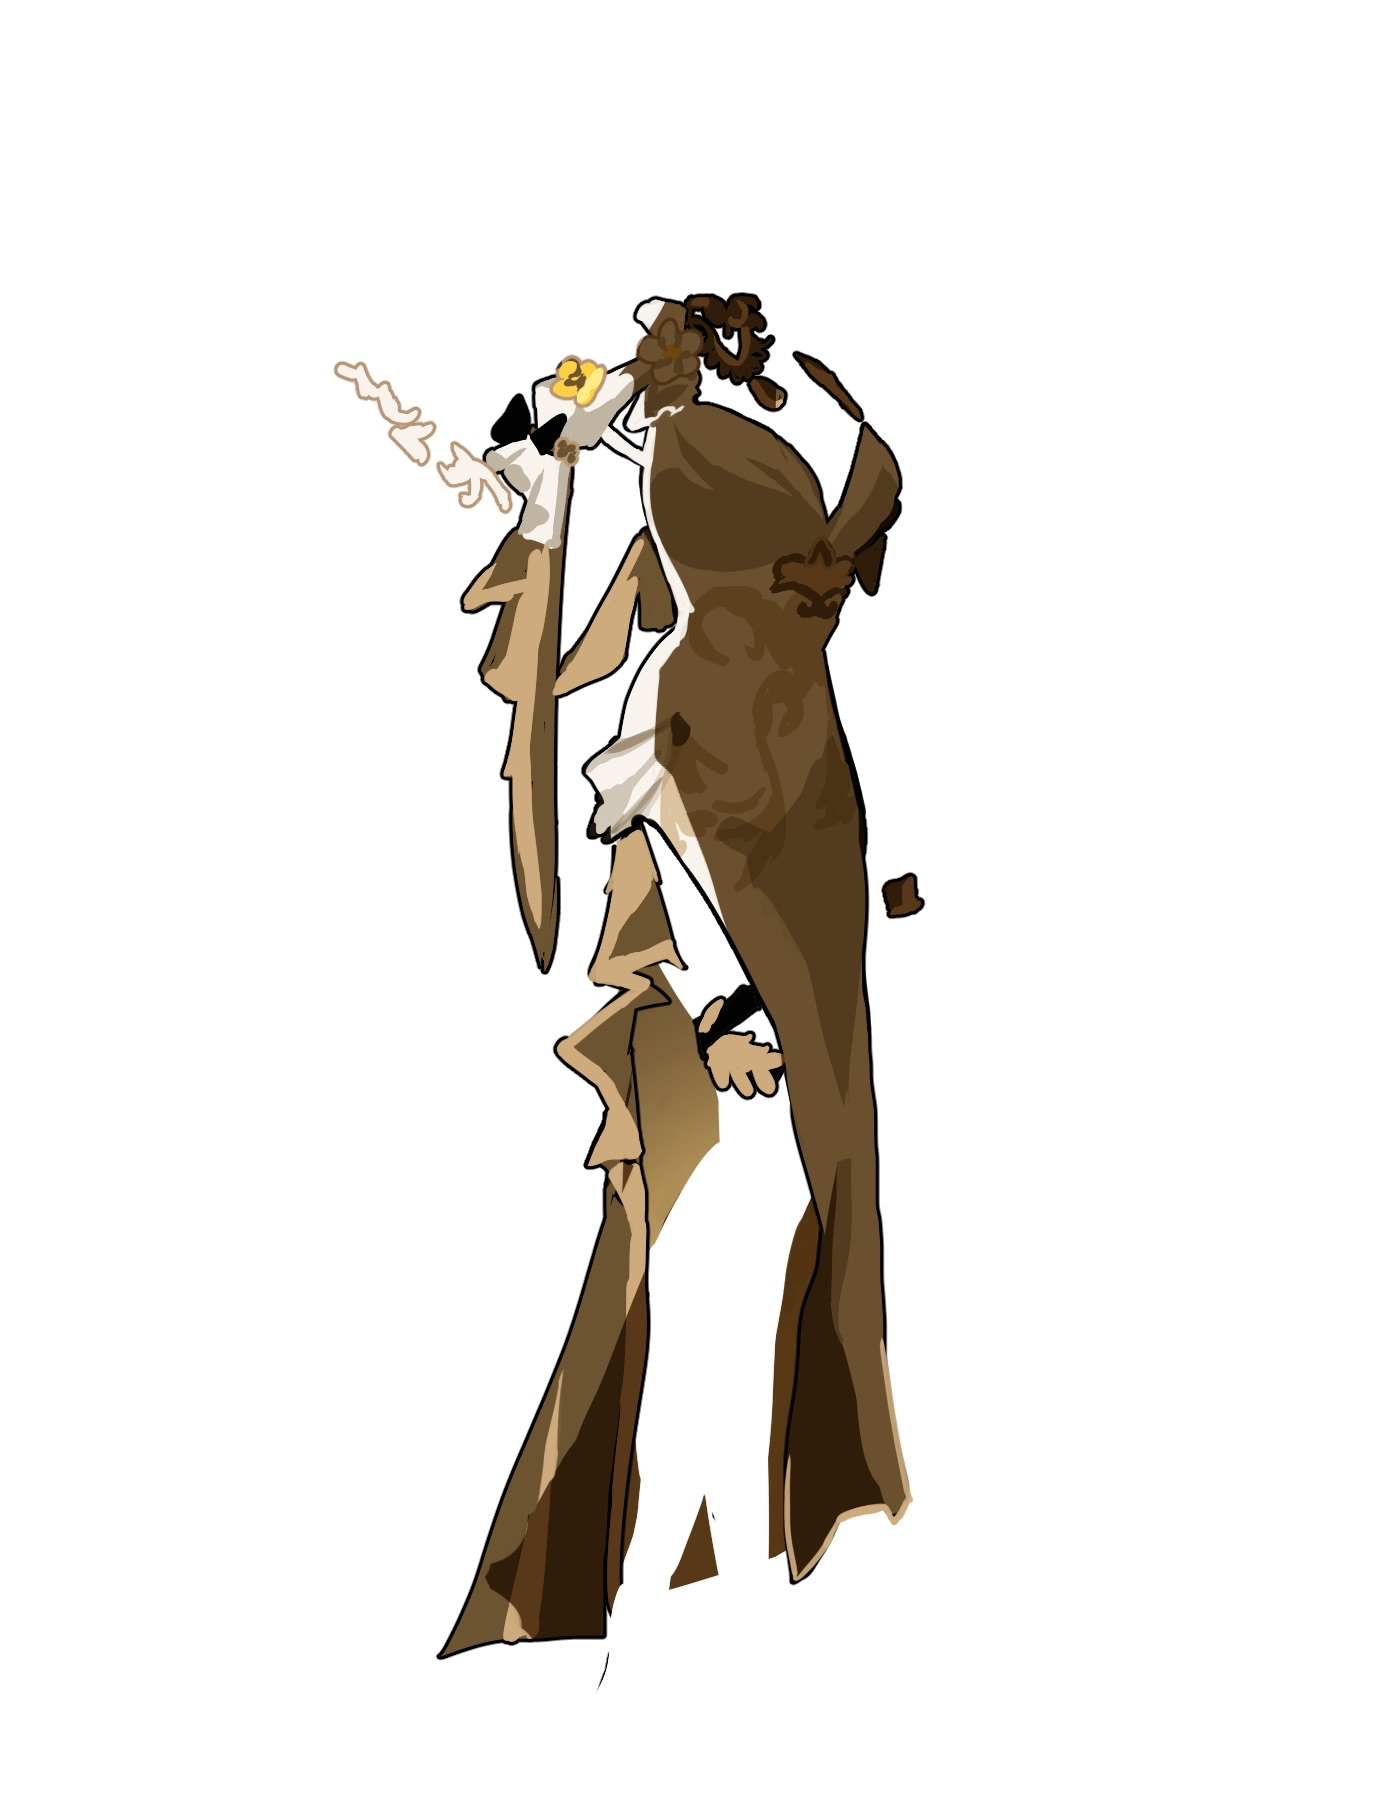
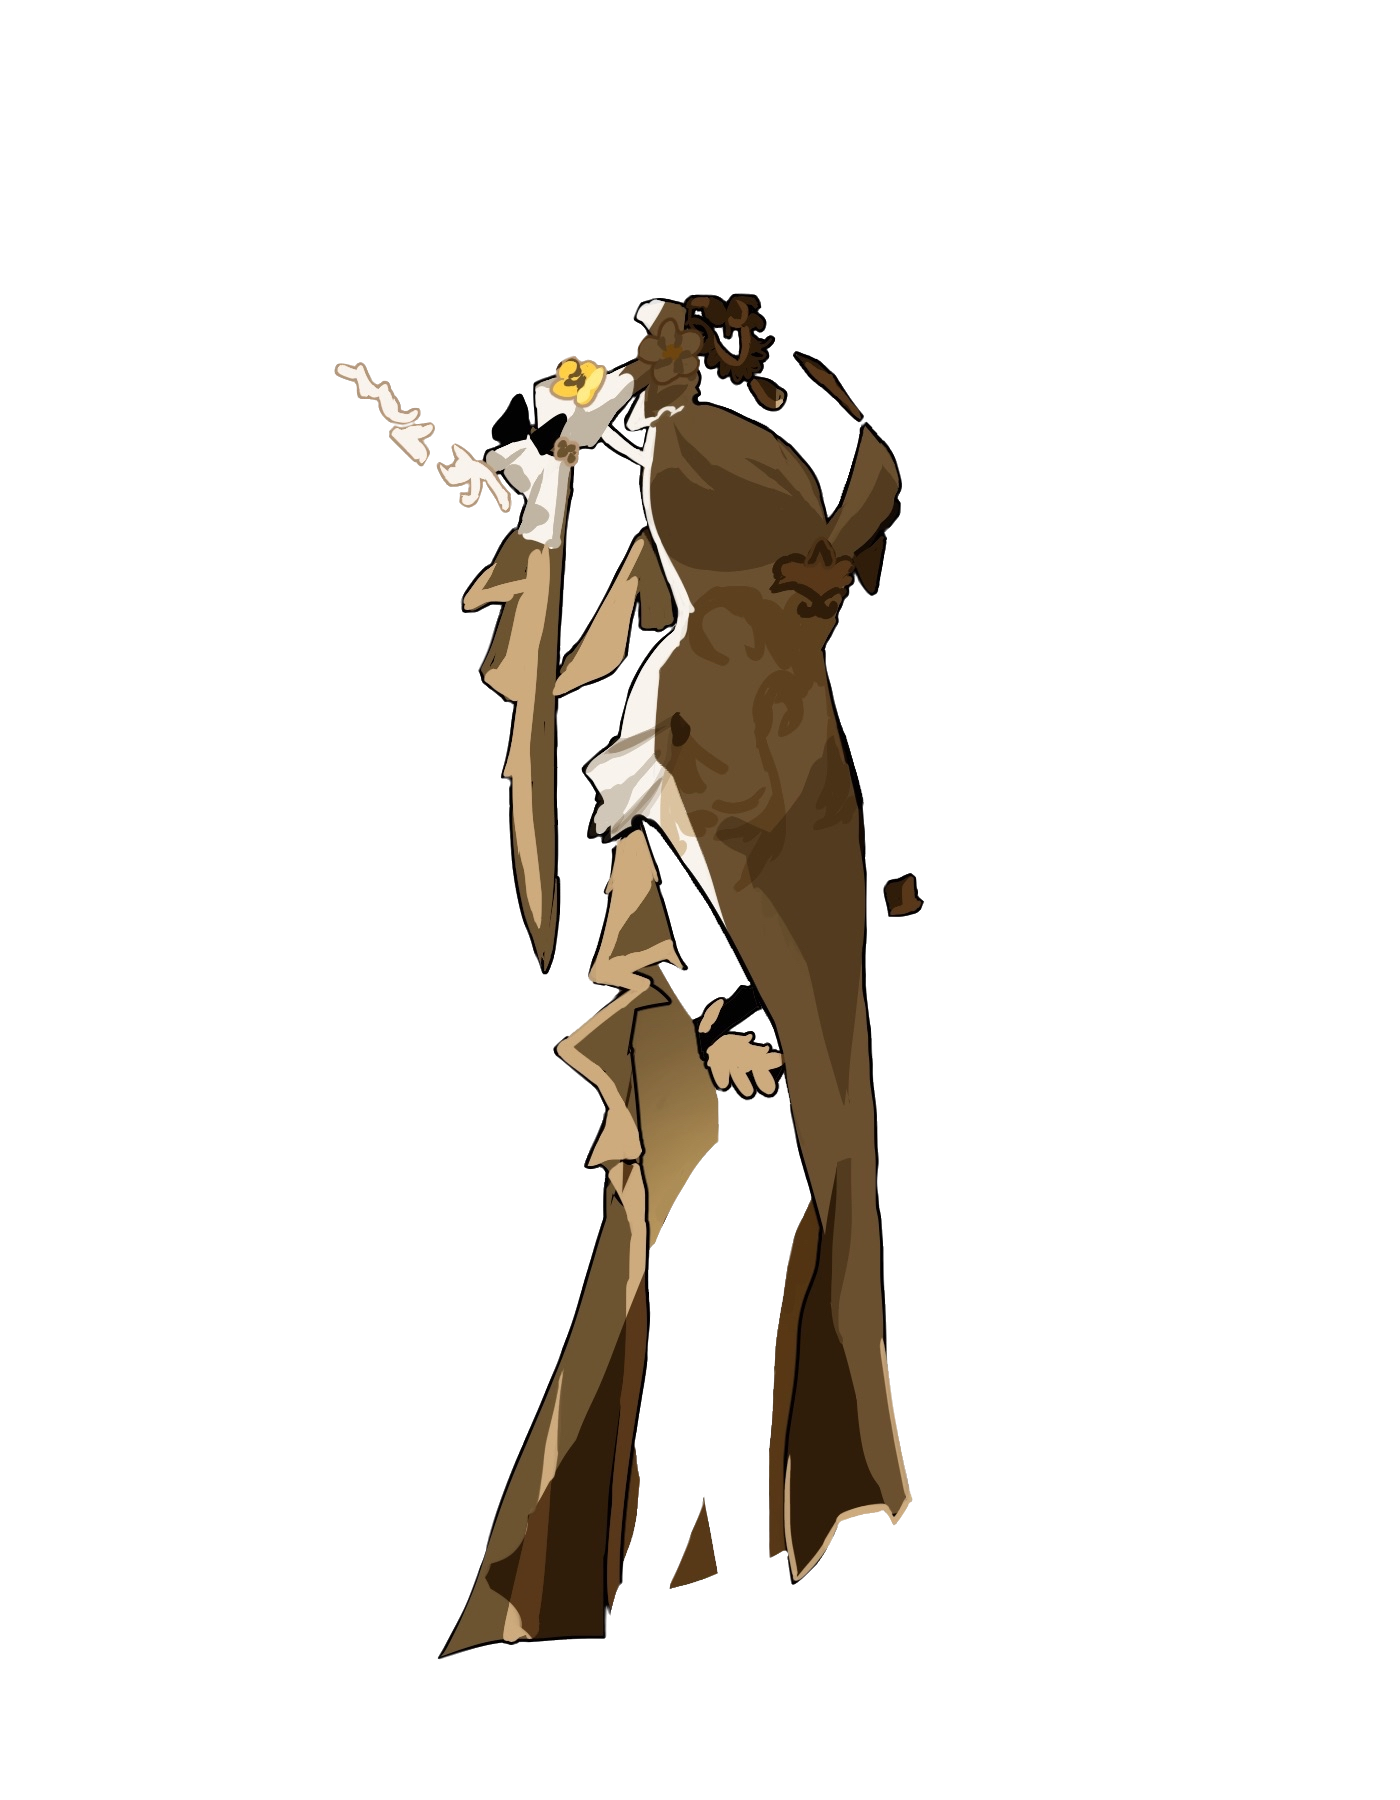
adding the sprites and background in, took me a whole day to make them transparent :')

diff --git a/aglaea.js b/aglaea.js
@@ -1,17 +1,65 @@
 let bgImg;
+let arrowImg;
+let bodyImg;
+let dresses = [];
+let hairs = [];
+let hats = [];
+let shoes = [];
+
+let currentDressIndex;
+let currentHairIndex;
+let currentHatIndex;
+let currentShoeIndex;
+
+// arrow positions
+let leftArrowX = 100, rightArrowX = 600, arrowY = 450;
+
+// dialogue
+let clickCount = 0;
+let dialogue = [
+    "No need for tailoring.",
+    "The fit on this one... is rather lovely.",
+    "What other styles do you have in mind?",
+];
+let currentDialogue = "";
 
 function preload() {
-  bgImg = loadImage("background.png");
+    bgImg = loadImage("background.png");
+    arrowImg = loadImage("arrow.png");
+    bodyImg = loadImage("body.png");
+
+    dresses.push(loadImage("dress1.png"));
+    dresses.push(loadImage("dress2.png"));
+    dresses.push(loadImage("dress3.png"));
+    dresses.push(loadImage("dress4.png"));
+
+    hairs.push(loadImage("hair1.png"));
+    hairs.push(loadImage("hair2.png"));
+    hairs.push(loadImage("hair3.png"));
+
+    shoes.push(loadImage("shoe1.png"));
+    shoes.push(loadImage("shoe2.png"));
+    shoes.push(loadImage("shoe3.png"));
+    shoes.push(loadImage("shoe4.png"));
+
+    hats.push(loadImage("hat1.png"));
+    hats.push(loadImage("hat2.png"));
+    hats.push(loadImage("hat3.png"));
 }
 
 function setup() {
-  createCanvas(700, 900);
-  imageMode(CENTER);
+    createCanvas(700, 900);
+    ImageMode(CENTER);
 }
 
 function draw() {
-  if (bgImg) {
-    image(bgImg, width/2, height/2, 700, 900); // scale to canvas
-  }
+    background(bgImg);
+    drawCharacter();
+    drawArrows();
+    drawDialogue();
+}
+
+function drawCharacter() {
+    image(bodyImg, width/2, height/2);
 }
 
